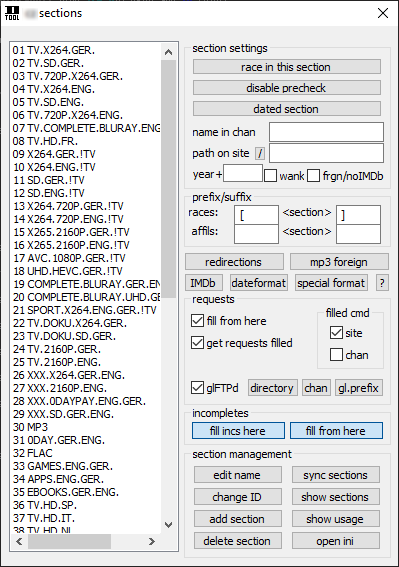
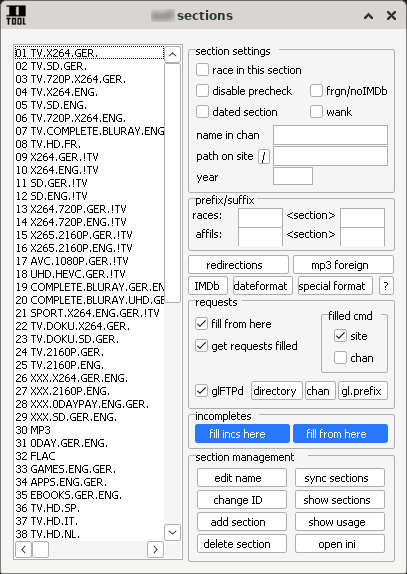
commands+sitesetup.fix

diff --git a/Commands.html b/Commands.html
@@ -131,18 +131,19 @@ body {
         <strong>/dtas &lt;trigger(s)&gt;</strong> - Sport Trigger adden<br />
         <strong>/dtds</strong> <strong>&lt;trigger(s)&gt;</strong> - Sport Trigger löschen<br />
         <strong>/dteditangs - </strong>Dialog zum Ändern der Einstellungen öffnen<br />
-        <strong>/dtlangs - </strong>Manuelles updaten und anzeigen der Sprachen durch die Listen im d-tool Ordner, falls man sie sehen möchte oder angepasst hat. Upgedated werden die Listen sonst nur bei jedem mIRC Neustart.<br>
+        <strong>/dtlangs - </strong>Manuelles updaten und anzeigen der Sprachen durch die Listen im d-tool Ordner, falls man sie sehen möchte oder im laufenden Betrieb angepasst hat. Upgedated werden die Listen sonst nur bei jedem mIRC Neustart.<br>
         <strong>/dtrace - </strong>Manuelle Racefunktion (zum testen)<br>
         Vorher Release in die Zwischenablage kopieren und Sektion merken. Wahlweise <br />
-        mit Precheck oder als  Simulation (bei Simulation wird nichts zum FTP Clienten gesendet).<br>
+        mit Precheck oder als  Simulation (bei Simulation wird nichts zum FTP Clienten gesendet).<br />
+        Kann auch mit Rechtsklick auf ein Release in einem Channel oder @window ausgelöst werden.        <br>
         <strong>/dtfxp - </strong>Manuelle FXP-Funktion per cbftp<br />
-        <strong>/dtrld - </strong>Manuell die Hash-Tabellen parsen      <br>
+        <strong>/dtrld - </strong>Manuell die Hash-Tabellen neu parsen<br>
         _____________________________________________________________<br>
         <br>
         <strong>/dtinfo </strong> - Informationen über die Siteeinstellungen<br />
         <strong>/dinv &lt;nick&gt; &lt;site1&gt; &lt;site2&gt; ...</strong> - Invite auf einer oder mehrere Sites<br />
         <strong>/dinvite</strong> - Invite auf allen Sites falls die IRC-Nicks eingestellt sind<br>
-        <strong>/dtsections &lt;site&gt;</strong> - Sektionen listen<br />
+        <strong>/dtsec &lt;site&gt;</strong> - Sektionen listen<br />
         <strong>/dtusage &lt;Number&gt; </strong>- Anzeigen auf welchen Sites diese Sektion genutzt wird<br>
         <strong>/dtaffils </strong> - Affils aller Sites anzeigen lassen<br>
         <strong>/dtpres</strong> - Derzeit gespeicherte Preeinträge anzeigen lassen<br>

diff --git a/SiteSetup.html b/SiteSetup.html
@@ -334,10 +334,9 @@ Eingabefeld stand, doppelt klicken), und entsprechend editieren, dann in
     <p>&nbsp;</p>
     <p>&nbsp;</p>
     <p>&nbsp;</p>
-    <p><br />
-      <img src="SiteSetup-Dateien/menu-sections.png" width="399" height="567"><br />
+<br />      <img src="SiteSetup-Dateien/menu-sections.png" width="407" height="574"><br />
       <br />
-      <img src="SiteSetup-Dateien/menu-imdb.png" width="332" height="292"></p>
+      <img src="SiteSetup-Dateien/menu-imdb.png" width="332" height="292">
     <p>&nbsp;</p>
     <p><br />
 </p>
